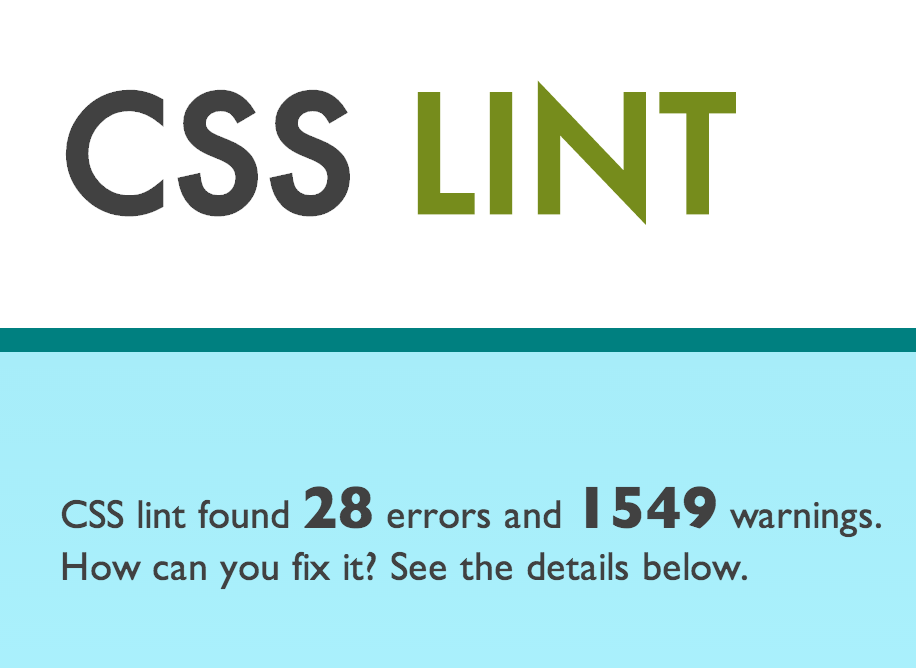
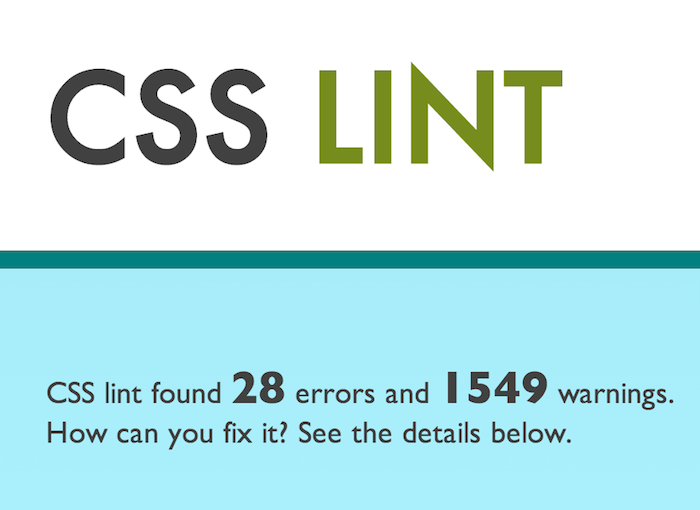
Adding images to the presentation and changed the theme a bit.

diff --git a/css/theme/simple.css b/css/theme/simple.css
@@ -18,7 +18,6 @@ body {
   font-family: "Lato", sans-serif;
   font-size: 36px;
   font-weight: 200;
-  letter-spacing: -0.02em;
   color: black; }
 
 ::selection {
@@ -35,7 +34,7 @@ body {
 .reveal h4,
 .reveal h5,
 .reveal h6 {
-  margin: 0 0 20px 0;
+  margin: 0 0 40px 0;
   color: black;
   font-family: "News Cycle", Impact, sans-serif;
   line-height: 0.9em;
@@ -50,7 +49,7 @@ body {
  * LINKS
  *********************************************/
 .reveal a:not(.image) {
-  color: darkblue;
+  color: #cc0000;
   text-decoration: none;
   -webkit-transition: color .15s ease;
   -moz-transition: color .15s ease;
@@ -59,13 +58,13 @@ body {
   transition: color .15s ease; }
 
 .reveal a:not(.image):hover {
-  color: #0000f1;
+  color: #ff3333;
   text-shadow: none;
   border: none; }
 
 .reveal .roll span:after {
   color: #fff;
-  background: #00003f; }
+  background: maroon; }
 
 /*********************************************
  * IMAGES
@@ -83,7 +82,7 @@ body {
 
 .reveal a:hover img {
   background: rgba(255, 255, 255, 0.2);
-  border-color: darkblue;
+  border-color: #cc0000;
   box-shadow: 0 0 20px rgba(0, 0, 0, 0.55); }
 
 /*********************************************
@@ -91,31 +90,31 @@ body {
  *********************************************/
 .reveal .controls div.navigate-left,
 .reveal .controls div.navigate-left.enabled {
-  border-right-color: darkblue; }
+  border-right-color: #cc0000; }
 
 .reveal .controls div.navigate-right,
 .reveal .controls div.navigate-right.enabled {
-  border-left-color: darkblue; }
+  border-left-color: #cc0000; }
 
 .reveal .controls div.navigate-up,
 .reveal .controls div.navigate-up.enabled {
-  border-bottom-color: darkblue; }
+  border-bottom-color: #cc0000; }
 
 .reveal .controls div.navigate-down,
 .reveal .controls div.navigate-down.enabled {
-  border-top-color: darkblue; }
+  border-top-color: #cc0000; }
 
 .reveal .controls div.navigate-left.enabled:hover {
-  border-right-color: #0000f1; }
+  border-right-color: #ff3333; }
 
 .reveal .controls div.navigate-right.enabled:hover {
-  border-left-color: #0000f1; }
+  border-left-color: #ff3333; }
 
 .reveal .controls div.navigate-up.enabled:hover {
-  border-bottom-color: #0000f1; }
+  border-bottom-color: #ff3333; }
 
 .reveal .controls div.navigate-down.enabled:hover {
-  border-top-color: #0000f1; }
+  border-top-color: #ff3333; }
 
 /*********************************************
  * PROGRESS BAR
@@ -124,9 +123,17 @@ body {
   background: rgba(0, 0, 0, 0.2); }
 
 .reveal .progress span {
-  background: darkblue;
+  background: #cc0000;
   -webkit-transition: width 800ms cubic-bezier(0.26, 0.86, 0.44, 0.985);
   -moz-transition: width 800ms cubic-bezier(0.26, 0.86, 0.44, 0.985);
   -ms-transition: width 800ms cubic-bezier(0.26, 0.86, 0.44, 0.985);
   -o-transition: width 800ms cubic-bezier(0.26, 0.86, 0.44, 0.985);
   transition: width 800ms cubic-bezier(0.26, 0.86, 0.44, 0.985); }
+
+.reveal section h1 img {
+  border: none;
+  box-shadow: none; }
+
+.reveal cite {
+  font-style: italic;
+  font-size: 60%; }

diff --git a/index.html b/index.html
@@ -15,7 +15,7 @@
 		<meta name="viewport" content="width=device-width, initial-scale=1.0, maximum-scale=1.0, user-scalable=no">
 
 		<link rel="stylesheet" href="css/reveal.min.css">
-		<link rel="stylesheet" href="css/theme/default.css" id="theme">
+		<link rel="stylesheet" href="css/theme/simple.css" id="theme">
 
 		<!-- For syntax highlighting -->
 		<link rel="stylesheet" href="lib/css/zenburn.css">
@@ -34,7 +34,7 @@
 
 		<div class="reveal">
       <div class="slides">
-        <section data-markdown="scholar-onesearch.md" data-separator="^\n\n\n" data-vertical="^\n\n" data-notes="^Note:" data-charset="utf-8"></section>
+        <section data-markdown="scholar-onesearch.md" data-separator="^----" data-vertical="^---" data-notes="^Note:" data-charset="utf-8"></section>
 
 			</div>
 
@@ -63,7 +63,9 @@
 					{ src: 'plugin/markdown/markdown.js', condition: function() { return !!document.querySelector( '[data-markdown]' ); } },
 					{ src: 'plugin/highlight/highlight.js', async: true, callback: function() { hljs.initHighlightingOnLoad(); } },
 					{ src: 'plugin/zoom-js/zoom.js', async: true, condition: function() { return !!document.body.classList; } },
-					{ src: 'plugin/notes/notes.js', async: true, condition: function() { return !!document.body.classList; } }
+					{ src: 'plugin/notes/notes.js', async: true, condition: function() { return !!document.body.classList; } },
+          { src: 'socket.io/socket.io.js', async: true },
+          { src: 'plugin/notes-server/client.js', async: true }
 				]
 			});
 

diff --git a/css/theme/night.css b/css/theme/night.css
@@ -16,8 +16,7 @@ body {
   font-family: "Open Sans", sans-serif;
   font-size: 30px;
   font-weight: 200;
-  letter-spacing: -0.02em;
-  color: #eeeeee; }
+  color: #333333; }
 
 ::selection {
   color: white;
@@ -33,7 +32,7 @@ body {
 .reveal h4,
 .reveal h5,
 .reveal h6 {
-  margin: 0 0 20px 0;
+  margin: 0 0 40px 0;
   color: #eeeeee;
   font-family: "Montserrat", Impact, sans-serif;
   line-height: 0.9em;
@@ -71,7 +70,7 @@ body {
 .reveal section img {
   margin: 15px 0px;
   background: rgba(255, 255, 255, 0.12);
-  border: 4px solid #eeeeee;
+  border: 4px solid #333333;
   box-shadow: 0 0 10px rgba(0, 0, 0, 0.15);
   -webkit-transition: all .2s linear;
   -moz-transition: all .2s linear;

diff --git a/css/theme/default.css b/css/theme/default.css
@@ -28,8 +28,7 @@ body {
   font-family: "Lato", sans-serif;
   font-size: 36px;
   font-weight: 200;
-  letter-spacing: -0.02em;
-  color: #eeeeee; }
+  color: #333333; }
 
 ::selection {
   color: white;
@@ -45,7 +44,7 @@ body {
 .reveal h4,
 .reveal h5,
 .reveal h6 {
-  margin: 0 0 20px 0;
+  margin: 0 0 40px 0;
   color: #eeeeee;
   font-family: "League Gothic", Impact, sans-serif;
   line-height: 0.9em;
@@ -83,7 +82,7 @@ body {
 .reveal section img {
   margin: 15px 0px;
   background: rgba(255, 255, 255, 0.12);
-  border: 4px solid #eeeeee;
+  border: 4px solid #333333;
   box-shadow: 0 0 10px rgba(0, 0, 0, 0.15);
   -webkit-transition: all .2s linear;
   -moz-transition: all .2s linear;

diff --git a/css/theme/source/simple.scss b/css/theme/source/simple.scss
@@ -27,7 +27,7 @@ $headingColor: #000;
 $headingTextShadow: none;
 $headingTextTransform: none;
 $backgroundColor: #fff;
-$linkColor: #00008B;
+$linkColor: #CC0000;
 $linkColorHover: lighten( $linkColor, 20% );
 $selectionBackgroundColor: rgba(0, 0, 0, 0.99);
 
@@ -36,3 +36,16 @@ $selectionBackgroundColor: rgba(0, 0, 0, 0.99);
 // Theme template ------------------------------
 @import "../template/theme";
 // ---------------------------------------------
+
+
+//My overrides
+
+.reveal section h1 img{
+  border: none;
+  box-shadow: none;
+}
+
+.reveal cite{
+  font-style: italic;
+  font-size: 60%;
+}

diff --git a/css/theme/serif.css b/css/theme/serif.css
@@ -18,7 +18,6 @@ body {
   font-family: "Palatino Linotype", "Book Antiqua", Palatino, FreeSerif, serif;
   font-size: 36px;
   font-weight: 200;
-  letter-spacing: -0.02em;
   color: black; }
 
 ::selection {
@@ -35,7 +34,7 @@ body {
 .reveal h4,
 .reveal h5,
 .reveal h6 {
-  margin: 0 0 20px 0;
+  margin: 0 0 40px 0;
   color: #383d3d;
   font-family: "Palatino Linotype", "Book Antiqua", Palatino, FreeSerif, serif;
   line-height: 0.9em;

diff --git a/css/theme/beige.css b/css/theme/beige.css
@@ -28,7 +28,6 @@ body {
   font-family: "Lato", sans-serif;
   font-size: 36px;
   font-weight: 200;
-  letter-spacing: -0.02em;
   color: #333333; }
 
 ::selection {
@@ -45,7 +44,7 @@ body {
 .reveal h4,
 .reveal h5,
 .reveal h6 {
-  margin: 0 0 20px 0;
+  margin: 0 0 40px 0;
   color: #333333;
   font-family: "League Gothic", Impact, sans-serif;
   line-height: 0.9em;

diff --git a/css/theme/moon.css b/css/theme/moon.css
@@ -28,7 +28,6 @@ body {
   font-family: "Lato", sans-serif;
   font-size: 36px;
   font-weight: 200;
-  letter-spacing: -0.02em;
   color: #93a1a1; }
 
 ::selection {
@@ -45,7 +44,7 @@ body {
 .reveal h4,
 .reveal h5,
 .reveal h6 {
-  margin: 0 0 20px 0;
+  margin: 0 0 40px 0;
   color: #eee8d5;
   font-family: "League Gothic", Impact, sans-serif;
   line-height: 0.9em;

diff --git a/css/theme/solarized.css b/css/theme/solarized.css
@@ -28,7 +28,6 @@ body {
   font-family: "Lato", sans-serif;
   font-size: 36px;
   font-weight: 200;
-  letter-spacing: -0.02em;
   color: #657b83; }
 
 ::selection {
@@ -45,7 +44,7 @@ body {
 .reveal h4,
 .reveal h5,
 .reveal h6 {
-  margin: 0 0 20px 0;
+  margin: 0 0 40px 0;
   color: #586e75;
   font-family: "League Gothic", Impact, sans-serif;
   line-height: 0.9em;

diff --git a/css/theme/sky.css b/css/theme/sky.css
@@ -25,7 +25,6 @@ body {
   font-family: "Open Sans", sans-serif;
   font-size: 36px;
   font-weight: 200;
-  letter-spacing: -0.02em;
   color: #333333; }
 
 ::selection {
@@ -42,7 +41,7 @@ body {
 .reveal h4,
 .reveal h5,
 .reveal h6 {
-  margin: 0 0 20px 0;
+  margin: 0 0 40px 0;
   color: #333333;
   font-family: "Quicksand", sans-serif;
   line-height: 0.9em;

diff --git a/css/theme/template/settings.scss b/css/theme/template/settings.scss
@@ -7,10 +7,10 @@ $backgroundColor: #2b2b2b;
 // Primary/body text
 $mainFont: 'Lato', sans-serif;
 $mainFontSize: 36px;
-$mainColor: #eee;
+$mainColor: #333333;
 
 // Headings
-$headingMargin: 0 0 20px 0;
+$headingMargin: 0 0 40px 0;
 $headingFont: 'League Gothic', Impact, sans-serif;
 $headingColor: #eee;
 $headingLineHeight: 0.9em;

diff --git a/css/theme/template/theme.scss b/css/theme/template/theme.scss
@@ -13,7 +13,7 @@ body {
 	font-family: $mainFont;
 	font-size: $mainFontSize;
 	font-weight: 200;
-	letter-spacing: -0.02em;
+	//letter-spacing: -0.02em;
 	color: $mainColor;
 }
 
